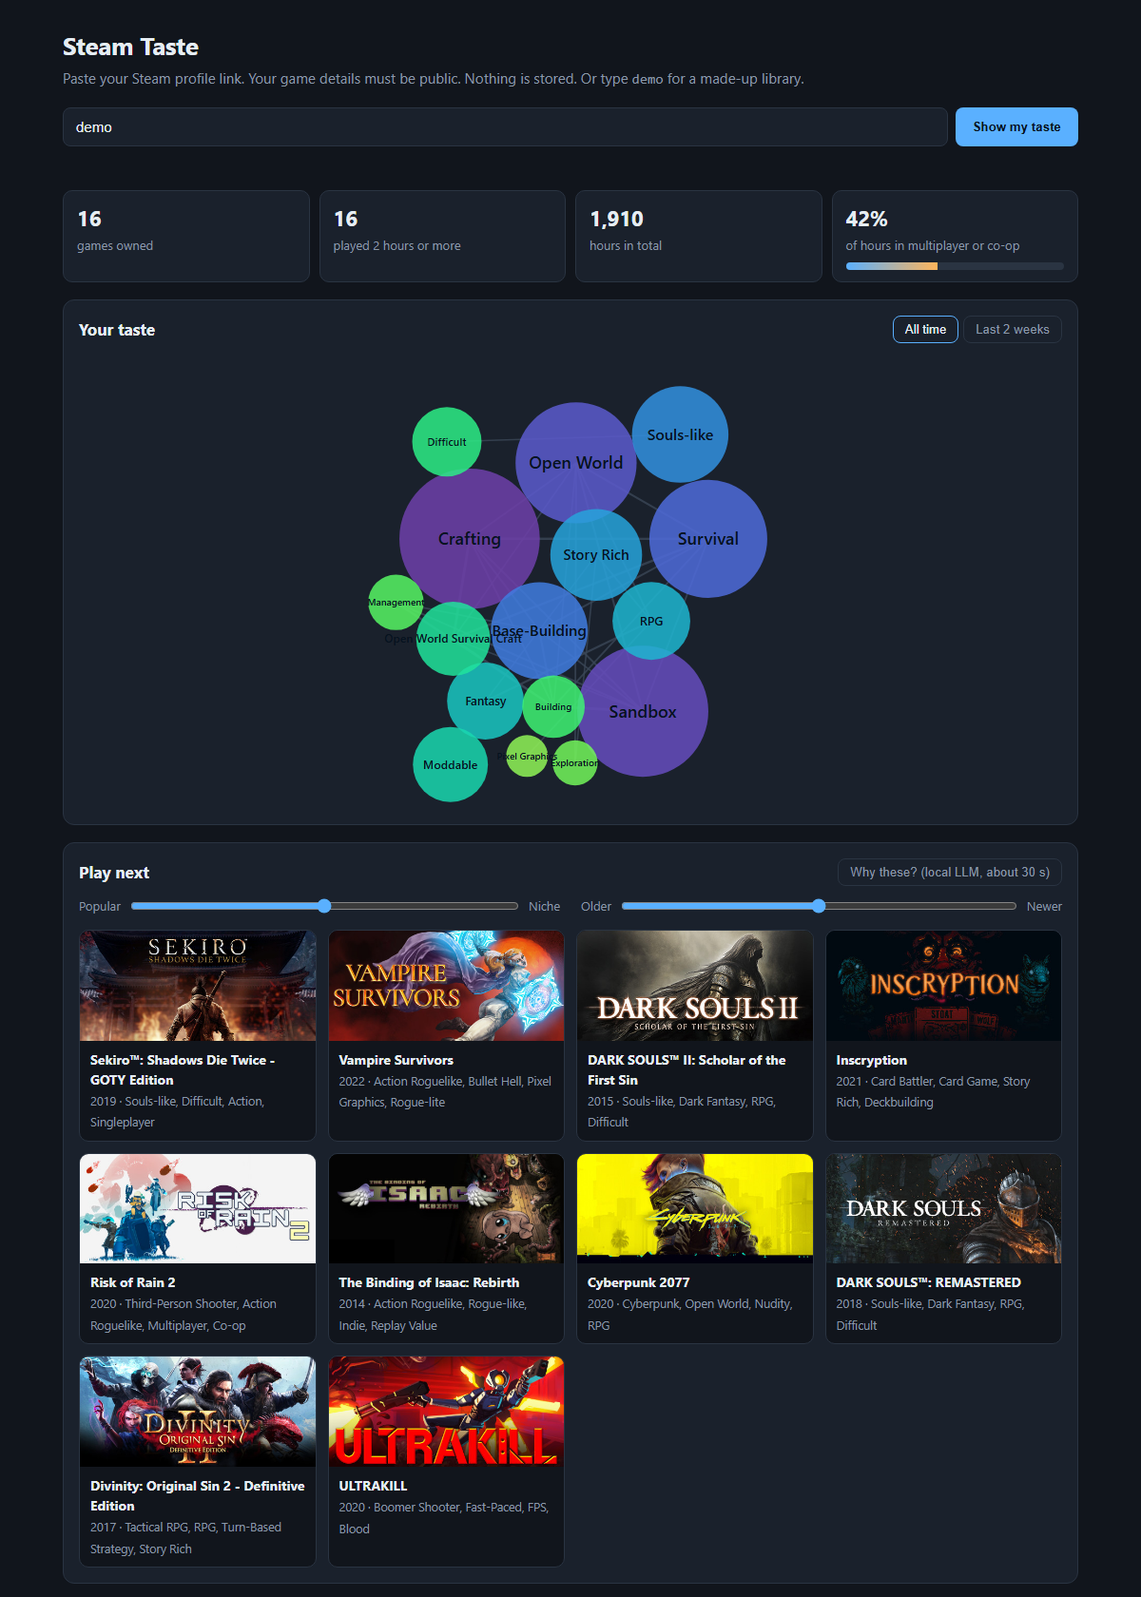
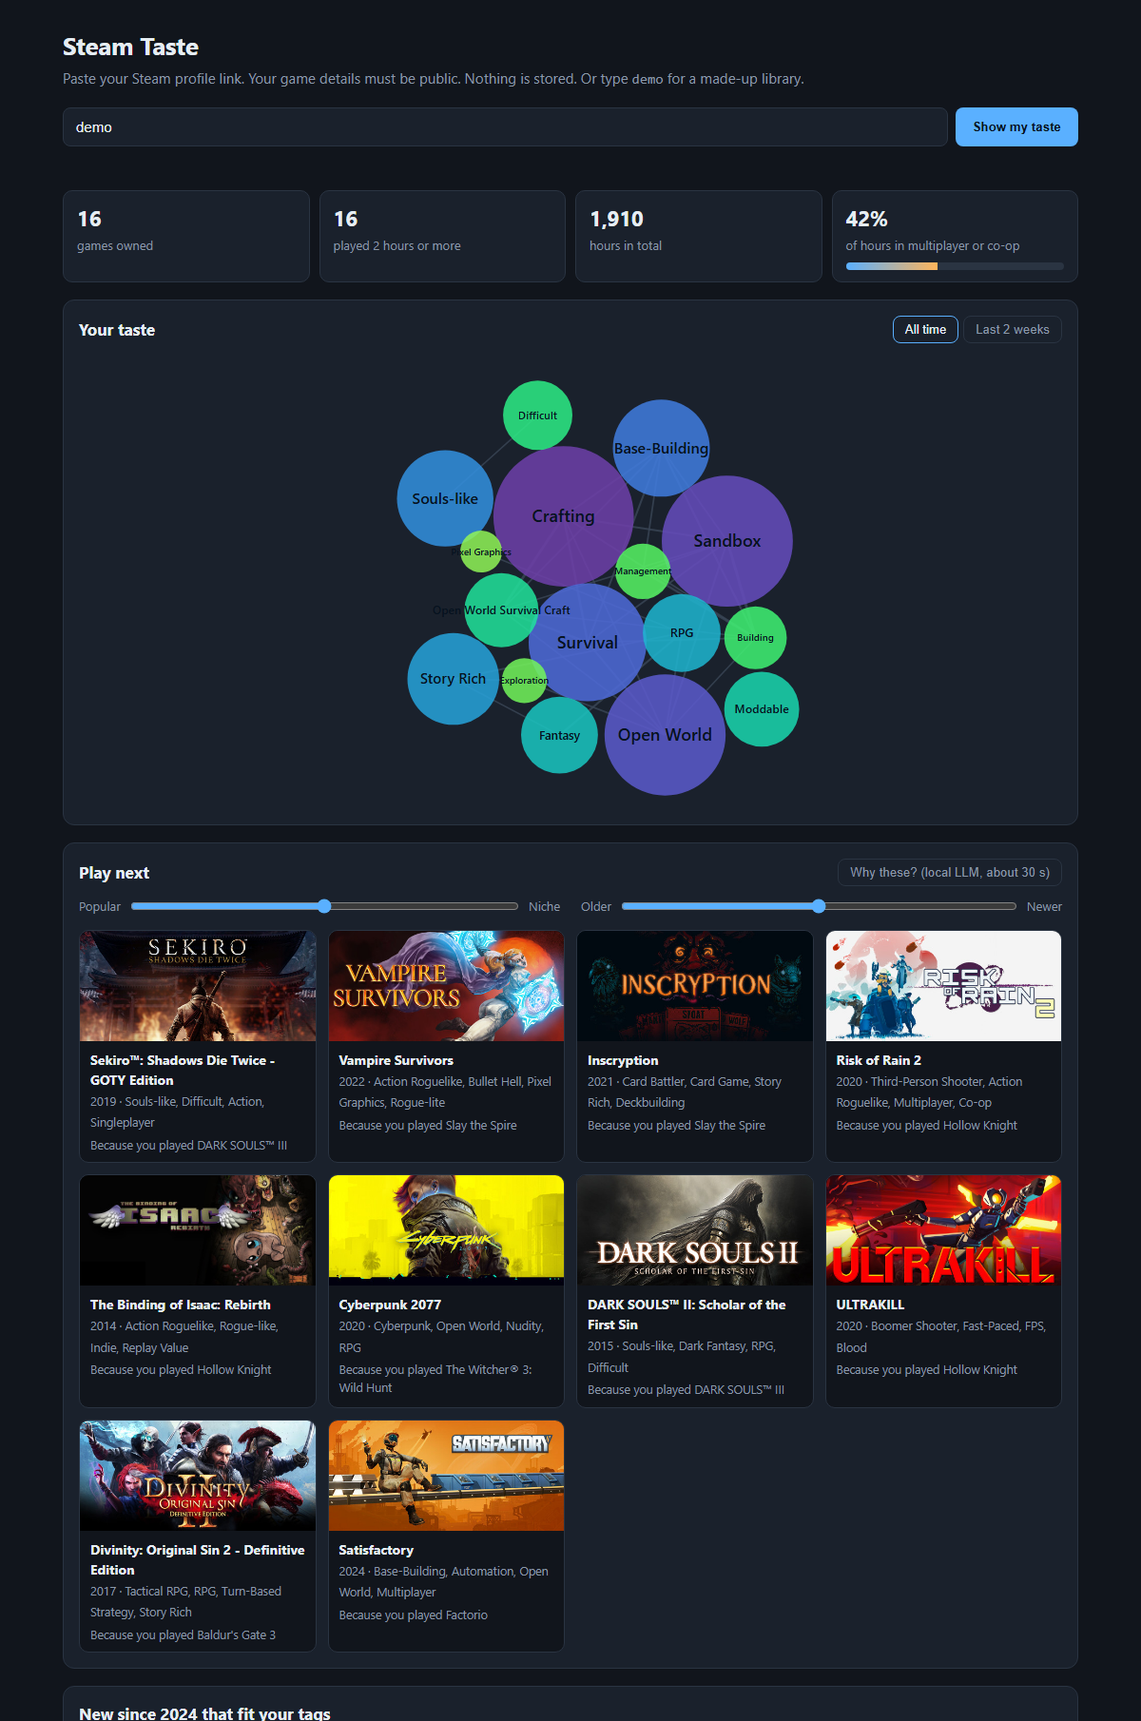
Page: Steam errors without the key, its own EASE, a reason on each card
A bad Steam id crashed the request and the error's URL carried the API key;
Steam's errors now reach the page as a clear 400 or 502 without it, and a
missing key says what to do. On a fresh clone the page trains EASE itself
(about 20 s). Each card names the played game with the biggest term in
EASE's sum ("Because you played Dark Souls III"), and the candidates are
reranked for tag variety. recs.recommend ranks a JSON library with the
page's ranker instead of retraining ALS.

diff --git a/static/index.html b/static/index.html
@@ -36,6 +36,7 @@
   .card div { padding: 9px 11px; }
   .card b { display: block; font-size: 14px; }
   .card small { color: var(--muted); }
+  .because { display: block; margin-top: 4px; color: #8fb8de; }
   .reason { color: #c9d4e0; font-size: 13px; margin: 6px 0 0; font-style: italic; }
   .hidden { display: none; }
   .sliders { display: flex; gap: 22px; flex-wrap: wrap; margin: 0 0 14px; color: var(--muted); font-size: 13px; }
@@ -49,7 +50,7 @@
   <h1>Steam Taste</h1>
   <p class="sub">Paste your Steam profile link. Your game details must be public. Nothing is stored. Or type <code>demo</code> for a made-up library.</p>
   <form id="form">
-    <input id="link" placeholder="https://steamcommunity.com/id/yourname" autocomplete="off">
+    <input id="link" aria-label="Steam profile link, or demo" placeholder="https://steamcommunity.com/id/yourname" autocomplete="off">
     <button>Show my taste</button>
   </form>
   <p id="status"></p>
@@ -68,7 +69,7 @@
       <div class="cards" id="next"></div></section>
     <section><h2>New since 2024 that fit your tags</h2><div class="cards" id="new"></div></section>
   </div>
-  <footer>Recommendations: EASE trained on 41M public Steam reviews (to 2022) and an October 2026 store catalogue. Not affiliated with Valve.</footer>
+  <footer>Play next: EASE plus the order you played in, learned from 41M public Steam reviews (to 2022); new games: tags and reviews from an October 2026 store catalogue. Not affiliated with Valve.</footer>
 </main>
 <div class="tip" id="tip"></div>
 <script>
@@ -159,7 +160,12 @@ function cards(id, games) {
     const b = document.createElement("b"); b.textContent = g.title;
     const s = document.createElement("small"); s.textContent = [g.year, g.tags.join(", ")].filter(Boolean).join(" · ");
     if (g.positive) s.title = g.positive.toLocaleString("en") + " positive reviews";
-    d.append(b, s); a.append(img, d); return a;
+    d.append(b, s);
+    if (g.because) {  // the played game with the biggest say in this pick (EASE's score is a sum over the library)
+      const w = document.createElement("small"); w.className = "because"; w.textContent = "Because you played " + g.because;
+      d.append(w);
+    }
+    a.append(img, d); return a;
   }));
 }
 

diff --git a/recs/web.py b/recs/web.py
@@ -9,12 +9,14 @@ import urllib.parse
 from http.server import BaseHTTPRequestHandler, ThreadingHTTPServer
 
 from recs import profile, sequence, steam
+from recs.core import diversify
 from recs.data import BUILD_DIR, ROOT, Catalog
 
 PAGE = ROOT / "static" / "index.html"
 HEADER = "https://cdn.cloudflare.steamstatic.com/steam/apps/{app}/header.jpg"
 TASTE_TAGS = 16
 CANDIDATES = 60  # EASE's top 60 go to the page, which re-sorts them with the popular/niche and older/newer sliders
+DIVERSITY = 0.8  # tag variety in that order (recs.core.diversify): no recall lost on the time split, val or test
 # "demo" in the link box: a made-up library, so the page can be tried (and shown) without a Steam key or anyone's profile
 DEMO = steam.SteamLibrary("demo", {620: 40.0, 105600: 310.0, 413150: 120.0, 367520: 65.0, 292030: 140.0, 489830: 90.0,
                                    1145360: 55.0, 504230: 25.0, 646570: 180.0, 588650: 45.0, 427520: 260.0,
@@ -35,6 +37,13 @@ def card(app: int, store: dict, catalog: Catalog) -> dict:
 def payload(lib: steam.SteamLibrary, store: dict, ranker, catalog: Catalog, weights: dict | None = None) -> dict:
     weights = weights or profile.idf(store)
     played, picks = next_picks(lib, store, ranker, CANDIDATES)
+    tags = {a: store.get(a, {}).get("tags") or catalog.tags.get(a, []) for a in picks}
+    picks = diversify(picks, tags, DIVERSITY, len(picks))
+    # "because you played X": the biggest term in EASE's sum for each pick (the page's rankers all start from EASE)
+    ease = getattr(ranker, "ease", ranker)
+    why = ease.because(played, picks) if hasattr(ease, "because") else {}
+    because = {a: {"because": lib.titles.get(b) or catalog.titles.get(b) or store.get(b, {}).get("title", str(b))}
+               for a, b in why.items()}
     taste = {}
     for name, library in (("all", played), ("recent", lib.recent)):
         top = profile.taste_profile(library, store, top=TASTE_TAGS, weights=weights)
@@ -46,7 +55,8 @@ def payload(lib: steam.SteamLibrary, store: dict, ranker, catalog: Catalog, weig
             "taste": taste, "edges": [{"a": a, "b": b, "w": w} for a, b, w in profile.tag_edges(tags, store)],
             "split": profile.social_split(played, store),
             "top_played": [{"title": lib.titles.get(a, str(a)), "hours": h} for a, h in top_played],
-            "next": [card(a, store, catalog) for a in picks], "new": [card(a, store, catalog) for a in new]}
+            "next": [card(a, store, catalog) | because.get(a, {}) for a in picks],
+            "new": [card(a, store, catalog) for a in new]}
 
 
 def recency(lib: steam.SteamLibrary, played: dict, now: float | None = None) -> dict[int, float]:
@@ -119,6 +129,8 @@ class Handler(BaseHTTPRequestHandler):
             return self.send(200, json.dumps(body).encode(), "application/json")
         except (ValueError, steam.PrivateLibrary) as e:
             return self.send(400, json.dumps({"error": str(e)}).encode(), "application/json")
+        except steam.SteamUnavailable as e:
+            return self.send(502, json.dumps({"error": str(e)}).encode(), "application/json")
 
     def log_message(self, *args):  # quiet: one line per request is noise here
         pass
@@ -140,9 +152,9 @@ def page_ranker(ease):
 def main(port: int = 8000) -> None:
     from recs.data import BUILD_DIR, load_catalog, load_store
     from recs.ease import EASE
-    print("loading the store catalogue and the EASE weights...")
+    print("loading the store catalogue and the EASE weights (trained the first time, about 20 s)...")
     store = load_store()
-    Handler.state = {"store": store, "catalog": load_catalog(), "ranker": page_ranker(EASE.load(BUILD_DIR / "ease")),
+    Handler.state = {"store": store, "catalog": load_catalog(), "ranker": page_ranker(EASE.load_or_build(BUILD_DIR / "ease")),
                      "weights": profile.idf(store)}
     print(f"open http://127.0.0.1:{port}")
     ThreadingHTTPServer(("127.0.0.1", port), Handler).serve_forever()

diff --git a/recs/recommend.py b/recs/recommend.py
@@ -1,18 +1,29 @@
-"""Ten recommendations with reasons, for one library.
+"""Ten recommendations with reasons, for one library, ranked as the page ranks (recs.web.page_ranker).
 
-Run: python -m recs.recommend --user <id>          (a frozen eval user: only their visible games are used)
-     python -m recs.recommend --library lib.json   ({"app_id": hours, ...})
+Run: python -m recs.recommend --library lib.json   ({"app_id": hours, ...} in the order played, oldest first)
+     python -m recs.recommend --user <id>          (a frozen eval user's visible games; the page's model has seen
+                                                    every user, so this shows the output, it is not an eval)
 """
 import argparse
 import json
 from pathlib import Path
 
 from recs import llm
-from recs.als import ALS
-from recs.data import build_interactions, load_catalog, load_positives
+from recs.data import BUILD_DIR, load_catalog
+from recs.ease import EASE
 from recs.explain import Explainer
-from recs.popularity import Popularity
 from recs.split import load_split
+from recs.web import page_ranker
+
+
+class InOrder:
+    """The page's ranker reads a library's values as recency; a JSON library gives its order instead."""
+
+    def __init__(self, ranker):
+        self.ranker, self.name = ranker, "page ranker"
+
+    def recommend(self, library, k: int = 10) -> list[int]:
+        return self.ranker.recommend({a: i for i, a in enumerate(library, 1)}, k)
 
 
 def main() -> None:
@@ -27,9 +38,7 @@ def main() -> None:
     else:
         library = next(e["visible"] for p in split.values() for e in p if e["user"] == args.user)
     catalog = load_catalog()
-    # ponytail: retrains ALS (~95 s) on every call; save the factors if this becomes a page or a bot
-    train = build_interactions(*load_positives(), exclude_users={e["user"] for p in split.values() for e in p})
-    explainer = Explainer(ALS(train, fallback=Popularity(train).ranking), catalog)
+    explainer = Explainer(InOrder(page_ranker(EASE.load_or_build(BUILD_DIR / "ease"))), catalog)
     print("Played most:")
     for a, h in sorted(library.items(), key=lambda x: -x[1])[:5]:
         print(f"  {catalog.titles.get(a, a)}: {h:.0f} h")

diff --git a/recs/steam.py b/recs/steam.py
@@ -3,6 +3,7 @@ user's data only when that user asks). Needs STEAM_API_KEY in .env; nothing read
 import json
 import os
 import re
+import urllib.error
 import urllib.parse
 import urllib.request
 from dataclasses import dataclass, field
@@ -37,16 +38,30 @@ def parse_profile(link: str) -> tuple[str, str]:
     return ("vanity" if m.group(1) == "id" else "id"), m.group(2)
 
 
+class SteamUnavailable(Exception):
+    """Steam did not answer (network down, timeout, a 5xx)."""
+
+
 def api_key() -> str:
     for line in (ROOT / ".env").read_text(encoding="utf-8").splitlines() if (ROOT / ".env").exists() else []:
         if line.startswith("STEAM_API_KEY="):
             return line.split("=", 1)[1].strip()
+    if "STEAM_API_KEY" not in os.environ:
+        raise ValueError("no Steam API key: put STEAM_API_KEY=... in .env (or type demo for a made-up library)")
     return os.environ["STEAM_API_KEY"]
 
 
 def http_json(url: str) -> dict:
-    with urllib.request.urlopen(url, timeout=30) as r:
-        return json.load(r)
+    """The URL holds the API key, so no error raised here may include it (urllib's own errors do)."""
+    try:
+        with urllib.request.urlopen(url, timeout=30) as r:
+            return json.load(r)
+    except urllib.error.HTTPError as e:
+        if e.code < 500:  # Steam refuses the request: almost always an id that does not exist
+            raise ValueError(f"Steam answered {e.code} for this profile: check the link") from None
+        raise SteamUnavailable(f"Steam answered {e.code}, try again in a minute") from None
+    except (urllib.error.URLError, TimeoutError):
+        raise SteamUnavailable("Steam is not answering, try again in a minute") from None
 
 
 def load_library(link: str, key: str | None = None, get: Callable[[str], dict] = http_json) -> SteamLibrary:

diff --git a/recs/ease.py b/recs/ease.py
@@ -32,6 +32,19 @@ class EASE:
         np.save(Path(folder) / "items.npy", self.item_ids)
 
     @classmethod
+    def load_or_build(cls, folder) -> "EASE":
+        """The page's weights: trained on every positive the first time (about 20 s), then loaded."""
+        from pathlib import Path
+        from recs import data
+        from recs.popularity import Popularity
+        if (Path(folder) / "b.npy").exists():
+            return cls.load(folder)
+        train = data.build_interactions(*data.load_positives(), exclude_users=set())
+        ease = cls(train, fallback=Popularity(train).ranking)
+        ease.save(folder)
+        return ease
+
+    @classmethod
     def load(cls, folder, fallback: Sequence[int] = ()) -> "EASE":
         from pathlib import Path
         e = cls.__new__(cls)
@@ -50,6 +63,15 @@ class EASE:
         scores = np.asarray([w.get(a, 1.0) for a in apps], dtype=np.float32) @ self.b[cols]
         scores[cols] = -np.inf
         return scores
+
+    def because(self, library: Library, picks: list[int]) -> dict[int, int]:
+        """For each pick, the owned game with the biggest term in its score: "because you played X", exact and
+        free, since a score is a sum over the library. Picks EASE does not know get no entry."""
+        owned = [a for a in library if a in self.index]
+        if not owned:
+            return {}
+        rows = self.b[[self.index[a] for a in owned]]
+        return {p: owned[int(np.argmax(rows[:, self.index[p]]))] for p in picks if p in self.index}
 
     def ranking(self, library: Library, n: int) -> list[int]:
         scores = self.scores(library)

diff --git a/recs/profile.py b/recs/profile.py
@@ -104,9 +104,8 @@ def new_releases(library: Library, store: dict, since: str = "2024-01-01", k: in
 
 def main(link: str) -> None:
     from recs import steam
-    from recs.data import BUILD_DIR, build_interactions, load_catalog, load_positives, load_store
+    from recs.data import BUILD_DIR, load_catalog, load_store
     from recs.ease import EASE
-    from recs.popularity import Popularity
 
     lib, store, catalog = steam.load_library(link), load_store(), load_catalog()
     played = {a: h for a, h in lib.games.items() if h >= 2}
@@ -114,13 +113,7 @@ def main(link: str) -> None:
     print(f"{len(lib.games)} games, {len(played)} played for 2 hours or more\n\nYour taste:")
     for t, share in taste_profile(played, store, weights=weights):
         print(f"  {t:<24} {'#' * round(share * 100)} {share:.0%}")
-    cache = BUILD_DIR / "ease"
-    if (cache / "b.npy").exists():
-        ease = EASE.load(cache)
-    else:
-        train = build_interactions(*load_positives(), exclude_users=set())
-        ease = EASE(train, lam=500, fallback=Popularity(train).ranking)
-        ease.save(cache)
+    ease = EASE.load_or_build(BUILD_DIR / "ease")
     from recs.web import next_picks, page_ranker
     _, picks = next_picks(lib, store, page_ranker(ease))  # as the page ranks
     split = social_split(played, store)

diff --git a/tests/test_steam.py b/tests/test_steam.py
@@ -32,3 +32,29 @@ def test_private_library_is_a_clear_error():
     get = lambda url: {"response": {}}
     with pytest.raises(steam.PrivateLibrary):
         steam.load_library("76561198000000001", key="k", get=get)
+
+
+def test_steam_errors_become_clear_messages_without_the_key(monkeypatch):
+    import io
+    import urllib.error
+
+    def refuse(url, timeout):
+        raise urllib.error.HTTPError(url, 400, "Bad Request", {}, io.BytesIO())
+    monkeypatch.setattr(steam.urllib.request, "urlopen", refuse)
+    with pytest.raises(ValueError) as e:
+        steam.http_json("https://api.steampowered.com/x/?key=SECRET123&steamid=1")
+    assert "SECRET123" not in str(e.value) and "400" in str(e.value)
+
+    def down(url, timeout):
+        raise urllib.error.URLError("timed out")
+    monkeypatch.setattr(steam.urllib.request, "urlopen", down)
+    with pytest.raises(steam.SteamUnavailable) as e:
+        steam.http_json("https://api.steampowered.com/x/?key=SECRET123")
+    assert "SECRET123" not in str(e.value)
+
+
+def test_a_missing_key_says_what_to_do(monkeypatch, tmp_path):
+    monkeypatch.setattr(steam, "ROOT", tmp_path)  # no .env here
+    monkeypatch.delenv("STEAM_API_KEY", raising=False)
+    with pytest.raises(ValueError, match="STEAM_API_KEY"):
+        steam.api_key()

diff --git a/tests/test_systems.py b/tests/test_systems.py
@@ -163,3 +163,23 @@ def test_recent_nudge_moves_up_what_was_liked_lately():
 
     assert RecentNudge(FakeEase(), {3: 1000}, beta=0.0).recommend({}, 3) == [1, 2, 3]
     assert RecentNudge(FakeEase(), {3: 1000}, beta=2.0).recommend({}, 3) == [3, 1, 2]
+
+
+def test_ease_weights_are_built_once_and_then_loaded(tmp_path, monkeypatch):
+    from recs import data
+    from recs.ease import EASE
+    calls = []
+
+    def positives():
+        calls.append(1)
+        return np.array([1, 1, 2, 2, 3]), np.array([10, 11, 10, 11, 10]), np.ones(5)
+    monkeypatch.setattr(data, "load_positives", positives)
+    first = EASE.load_or_build(tmp_path / "ease")
+    second = EASE.load_or_build(tmp_path / "ease")
+    assert calls == [1] and second.recommend({10: 1.0}, 1) == first.recommend({10: 1.0}, 1) == [11]
+
+
+def test_ease_names_the_owned_game_behind_each_pick():
+    from recs.ease import EASE
+    e = EASE(two_groups(), lam=1.0)
+    assert e.because({1: 5.0, 3: 5.0}, [2, 4, 999]) == {2: 1, 4: 3}  # 999 unknown: no reason

diff --git a/tests/test_web.py b/tests/test_web.py
@@ -64,3 +64,15 @@ def test_the_ranker_sees_the_latest_played_games_weighing_most():
     lib = SteamLibrary("765", {1: 50.0, 2: 30.0, 9: 1.0}, last_played={1: 1000 * day, 2: 820 * day})
     web.next_picks(lib, STORE, Recording(), now=1000 * day)
     assert seen[1] == 1.0 and abs(seen[2] - 0.5) < 1e-9 and 9 not in seen  # 180 days older: half; under 2 h: out
+
+
+def test_cards_say_which_played_game_led_to_them():
+    class WithEase(FakeRanker):
+        class ease:
+            @staticmethod
+            def because(library, picks):
+                return {2: 1}
+
+    lib = SteamLibrary("765", {1: 50.0}, titles={1: "A"})
+    p = web.payload(lib, STORE, WithEase(), Catalog({1: "A", 2: "B", 3: "Tool"}, {}, {}))
+    assert [(g["app_id"], g.get("because")) for g in p["next"]] == [(2, "A")]

diff --git a/recs/collect.py b/recs/collect.py
@@ -16,7 +16,6 @@ import time
 import urllib.parse
 import urllib.request
 from datetime import datetime, timezone
-from pathlib import Path
 from typing import Callable, Iterator
 
 from recs.data import ROOT

diff --git a/README.md b/README.md
@@ -286,8 +286,8 @@ python -m eval.intervals eval/results/<file>.json ease als    # first system is 
   | 0.8 | 0.087 | 0.086 | 0.988 | -0.001 (-0.003 to +0.001) |
   | 0.6 | 0.084 | | 0.995 on val | -0.005 on val (-0.009 to -0.001) |
 
-  At 0.8 the loss is inside the noise on both sets: on the demo, Dark Souls Remastered makes way for
-  Satisfactory and Dark Souls II moves down. Most lists are already varied, which is why the
+  At 0.8 the loss is inside the noise on both sets, so the page uses it: on the demo, Dark Souls Remastered
+  makes way for Satisfactory and Dark Souls II moves down. Most lists are already varied, which is why the
   measure starts near 1; the rerank matters for the libraries that are not.
 - **A graph neural network did not beat EASE either.** Stores describe their recommenders as graphs of who
   played what, so I trained LightGCN (He et al., 2020) on the same likes before the cutoff
@@ -456,7 +456,10 @@ not obscure. The candidates are EASE nudged by SASRec, the pair that did best on
 library in the order Steam's API gives as each game's last-played time (EASE + transitions if the SASRec weights
 are not there). On the demo library a recent run of Slay the Spire brings Inscryption, Vampire Survivors and
 ULTRAKILL into the top ten; with transitions alone the nudge also lifted the games that were rising in 2021 and
-2022 (Bloons TD 6, Among Us), which SASRec does not. A button
+2022 (Bloons TD 6, Among Us), which SASRec does not. Each card also says which of your games led to it:
+EASE's score is a sum over your library, so its biggest term names the game, exactly and without a model call
+(on the demo, Sekiro because of Dark Souls III, Inscryption because of Slay the Spire). The order is then
+reranked for tag variety (see "Variety cost nothing measurable" above). A button
 asks gemma4 for one line per "play next" card, from the games you played (schema-limited to those ten, in
 the page's order); the 2023 to 2026 games it names come from the store catalogue, so a library full of recent games
 still reads correctly. Ollama is started for that request and stopped right after.
@@ -489,7 +492,7 @@ python -m eval.time_split --set val                                 # the time s
 python -m eval.sasrec --export && pip install ".[seq]" && python -m eval.sasrec --set val   # SASRec, wants a GPU
 python -m eval.lightgcn --epochs 40 --batch 131072 --lr 0.01         # LightGCN on the same export, val and test
 python -m eval.explain_eval --set val --users 100   # how grounded the reasons are
-python -m recs.recommend --user <id from eval/split.json>   # ten picks with reasons
+python -m recs.recommend --library lib.json   # the page's picks with gemma4's reasons, no Steam key
 ```
 
 On Windows with more than 24 logical cores, OpenBLAS (as shipped with numpy) crashes inside implicit; the
@@ -501,10 +504,10 @@ package sets `OPENBLAS_NUM_THREADS=1` before numpy loads.
 pytest
 ```
 
-79 tests, no network, no model, no real data: the SQL build and the quality checks on tiny CSVs, the
+84 tests, no network, no model, no real data: the SQL build and the quality checks on tiny CSVs, the
 frozen splits (random and in time) and the latest-N view, the metrics and their bootstrap intervals, the variety rerank, the transition counts and recency weights, each recommender (owned games never recommended, unknown games ignored, empty
 libraries fall back to popularity), the reranker's schema and its fallback when the model fails or returns
-duplicates, the store catalogue's broken header, the collector (paging, hashing, no raw ids), the popularity weight, reading a profile link (vanity and numeric, private libraries), the taste profile (rare tags over common ones, long-played over many short games), the non-game filter, the tag links for the graph, the page's data (owned games and programs never recommended, reasons in the page's order, the demo library calling no one, the latest played games weighing most), SASRec's numpy forward pass (no step sees a later game), the explainer keeping ALS's order and checking which sentences are grounded, title matching with ™ and odd spacing, and stopping Ollama with its child process.
+duplicates, the store catalogue's broken header, the collector (paging, hashing, no raw ids), the popularity weight, reading a profile link (vanity and numeric, private libraries), the taste profile (rare tags over common ones, long-played over many short games), the non-game filter, the tag links for the graph, the page's data (owned games and programs never recommended, reasons in the page's order, the demo library calling no one, the latest played games weighing most, the game behind each card, Steam's errors reaching the page without the API key), SASRec's numpy forward pass (no step sees a later game), the explainer keeping ALS's order and checking which sentences are grounded, title matching with ™ and odd spacing, and stopping Ollama with its child process.
 
 ## What's next
 
